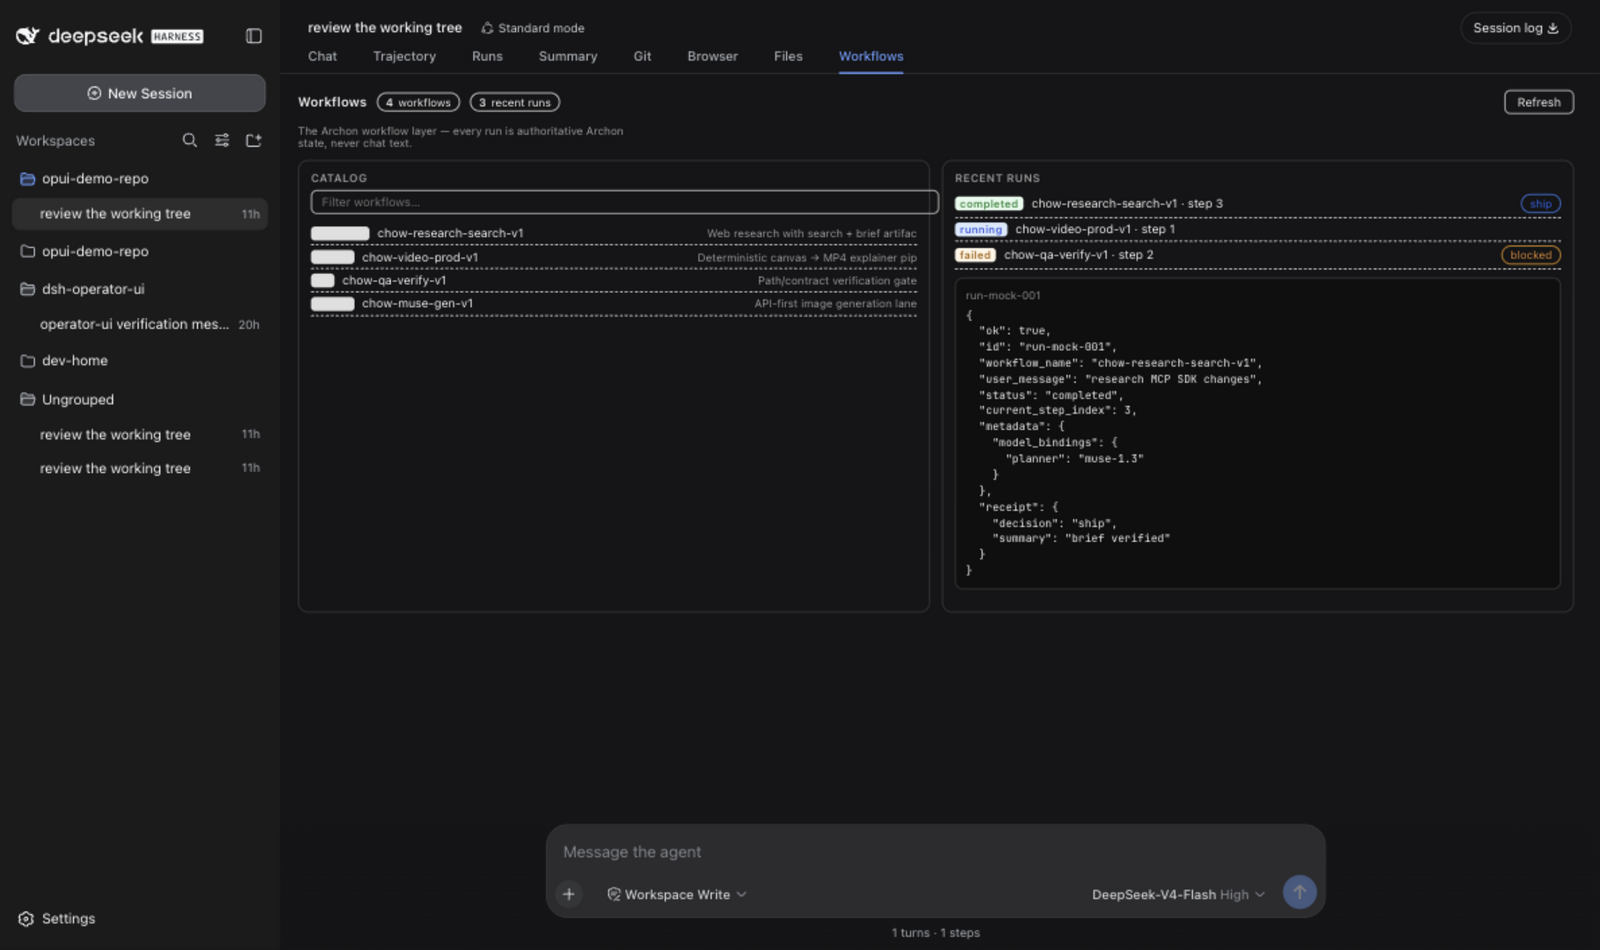
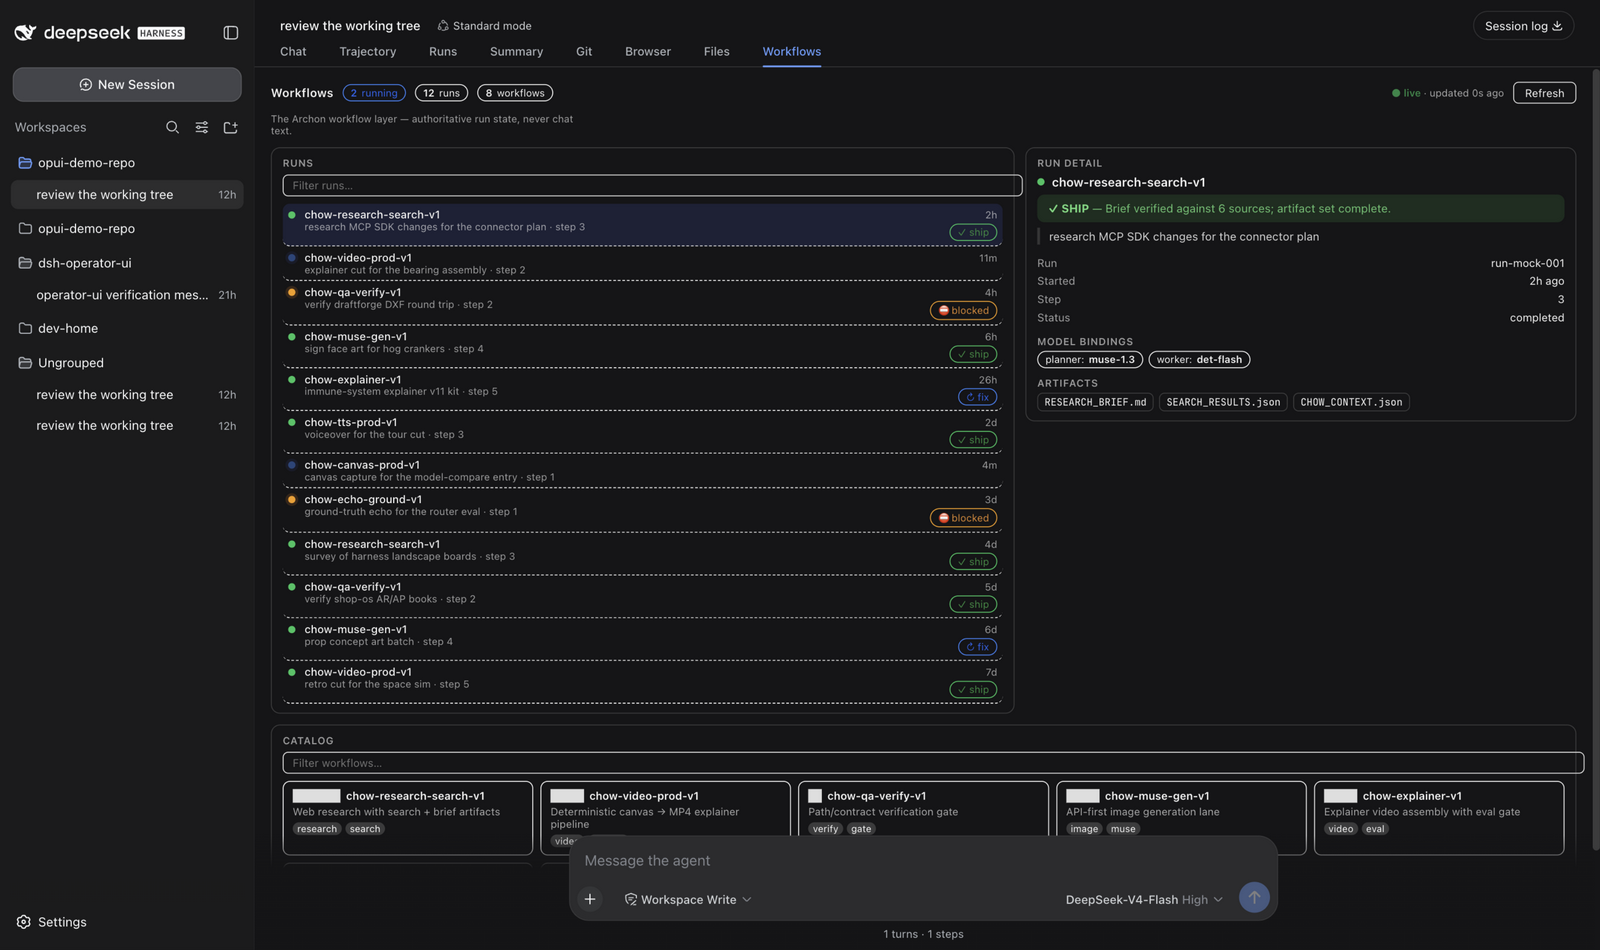
v0.6.0: Workflows tab redesign + DEPLOY runbook
- Workflows tab, properly designed: runs feed (status dots, message + step,
  relative time, receipt-decision chips) with filter; structured run detail
  (status hero with live pulse, SHIP/BLOCKED/NEEDS-FIX decision banner,
  message quote, facts, model-binding chips, artifact chips) — no more raw
  JSON; catalog as category cards with tag badges; live-updated indicator
  with refresh.
- mock-archon: 12 realistic runs (timestamps, artifacts, bindings) + 8
  workflows for development without a real Archon.
- DEPLOY.md: the install/verify/uninstall runbook for real hosts (env vars,
  systemd drop-in, 2-minute verification checklist, safety notes).

diff --git a/lib/client.js b/lib/client.js
@@ -250,6 +250,23 @@ body[data-ds-dark-theme] .opui-fs-content{background:var(--dsw-static-neutral-90
 .opui-git-add{color:var(--dsw-static-green-600,#2b8a3e);font-family:var(--ds-font-family-code,ui-monospace,monospace);font-size:11px}
 .opui-git-del{color:var(--dsw-static-red-600,#c92a2a);font-family:var(--ds-font-family-code,ui-monospace,monospace);font-size:11px}
 .opui-git-dels{display:flex;gap:4px;flex:none;width:86px;justify-content:flex-end;font-size:11px}
+.opui-chip.good{border-color:var(--dsw-static-green-500,#2f9e44);color:var(--dsw-static-green-600,#2b8a3e)}
+.opui-item.click{cursor:pointer;padding:5px 6px;border-radius:8px}
+.opui-item.click:hover{background:var(--dsw-static-neutral-50,#f6f8fa)}
+body[data-ds-dark-theme] .opui-item.click:hover{background:var(--dsw-static-neutral-800,#161b22)}
+.opui-item.sel{background:var(--dsw-static-blue-50,#edf2ff)}
+body[data-ds-dark-theme] .opui-item.sel{background:rgba(76,110,245,.14)}
+.opui-wf-decision{border-radius:8px;padding:8px 12px;font-weight:700;font-size:12.5px;margin:6px 0}
+.opui-wf-decision.good{background:var(--dsw-static-green-100,#d3f9d8);color:var(--dsw-static-green-800,#2b8a3e)}
+.opui-wf-decision.warn{background:var(--dsw-static-blue-100,#dbe4ff);color:var(--dsw-static-blue-700,#3b5bdb)}
+.opui-wf-decision.bad{background:var(--dsw-static-amber-100,#fff3bf);color:var(--dsw-static-amber-800,#a86600)}
+body[data-ds-dark-theme] .opui-wf-decision.good{background:rgba(47,158,68,.18);color:#69db7c}
+body[data-ds-dark-theme] .opui-wf-decision.warn{background:rgba(76,110,245,.18);color:#91a7ff}
+body[data-ds-dark-theme] .opui-wf-decision.bad{background:rgba(217,119,6,.18);color:#ffc078}
+.opui-wf-msg{border-left:3px solid var(--dsw-static-neutral-200,#c9d1d9);padding:2px 0 2px 10px;font-size:12.5px;opacity:.85;margin-top:6px}
+body[data-ds-dark-theme] .opui-wf-msg{border-left-color:var(--dsw-static-neutral-700,#30363d)}
+.opui-wf-art{font-family:var(--ds-font-family-code,ui-monospace,monospace);font-size:11px;border:1px solid var(--dsw-static-neutral-200,#c9d1d9);border-radius:6px;padding:2px 7px}
+body[data-ds-dark-theme] .opui-wf-art{border-color:var(--dsw-static-neutral-700,#30363d)}
 .opui-row.cur td:first-child{box-shadow:inset 3px 0 0 var(--dsw-static-blue-500,#4c6ef5)}
 `;
 
@@ -1084,22 +1101,31 @@ body[data-ds-dark-theme] .opui-fs-content{background:var(--dsw-static-neutral-90
 
     // ---------------------------------------------------------- workflows tab
 
-    const pick = (o, ...keys) => { for (const k of keys) { if (o && o[k] != null) return o[k]; } return null; };
+    const WF_DOT = { running: 'running', completed: 'done', failed: 'attention', queued: 'idle', pending: 'idle' };
+    const wfDot = (r) => WF_DOT[r.status] || 'idle';
+
+    const DecisionChip = ({ decision }) => decision
+      ? h('span', { className: 'opui-chip ' + (decision === 'ship' ? 'good' : decision === 'blocked' ? 'att' : 'run') },
+          decision === 'ship' ? '\u2713 ship' : decision === 'blocked' ? '\u26d4 blocked' : '\u21bb fix')
+      : null;
 
     const WorkflowsTab = () => {
-      const [data, setData] = useState({ phase: 'loading', catalog: null, runs: null, error: null, unreachable: false });
-      const [selRun, setSelRun] = useState(null);
-      const [query, setQuery] = useState('');
+      const [data, setData] = useState({ phase: 'loading', catalog: [], runs: [], error: null, unreachable: false, at: 0 });
+      const [selId, setSelId] = useState(null);
+      const [detail, setDetail] = useState(null);
+      const [wfQuery, setWfQuery] = useState('');
+      const [runQuery, setRunQuery] = useState('');
       const aliveRef = useRef(true);
+      useTick(15000); // keep relative times fresh
 
       const load = () => {
         fetch('/plugins/operator-ui/archon?op=catalog').then((r) => r.json()).then((c) => {
           if (!aliveRef.current) return;
-          setData((s) => ({ ...s, catalog: c.ok ? (c.workflows || []) : null, error: c.ok ? null : (c.error || 'catalog failed'), unreachable: !!c.unreachable }));
+          setData((s) => ({ ...s, catalog: c.ok ? (c.workflows || []) : [], error: c.ok ? null : (c.error || s.error), unreachable: s.unreachable || !!c.unreachable }));
         }).catch(() => {});
         fetch('/plugins/operator-ui/archon?op=runs&limit=20').then((r) => r.json()).then((r0) => {
           if (!aliveRef.current) return;
-          setData((s) => ({ ...s, phase: 'ready', runs: r0.ok ? (r0.runs || []) : null, error: r0.ok ? s.error : (r0.error || s.error), unreachable: !!r0.unreachable }));
+          setData((s) => ({ ...s, phase: 'ready', runs: r0.ok ? (r0.runs || []) : [], error: r0.ok ? null : (r0.error || s.error), unreachable: !!r0.unreachable, at: r0.ok ? Date.now() : s.at }));
         }).catch(() => {});
       };
 
@@ -1111,72 +1137,134 @@ body[data-ds-dark-theme] .opui-fs-content{background:var(--dsw-static-neutral-90
       }, []);
 
       const openRun = (id) => {
-        if (selRun && selRun.id === id) { setSelRun(null); return; }
-        setSelRun({ id, loading: true });
+        if (selId === id) { setSelId(null); setDetail(null); return; }
+        setSelId(id);
+        setDetail({ id, loading: true });
         fetch('/plugins/operator-ui/archon?op=run&id=' + encodeURIComponent(id))
           .then((r) => r.json())
-          .then((d) => setSelRun((cur) => (cur && cur.id === id ? { id, d: d.ok ? d : { ...d } } : cur)))
+          .then((d) => { if (aliveRef.current) setDetail((cur) => (cur && cur.id === id ? { id, d } : cur)); })
           .catch(() => {});
       };
 
-      const decisionChip = (decision) => decision
-        ? h('span', {
-          className: 'opui-chip ' + (decision === 'ship' ? 'run' : decision === 'blocked' ? 'att' : ''),
-        }, decision) : null;
-
       if (data.unreachable) {
         return h('div', { className: 'opui-sum' },
-          h('div', { className: 'opui-empty', style: { paddingTop: 50 } },
-            'Archon not reachable.',
-            h('div', { className: 'opui-sub', style: { marginTop: 8 } },
-              'The workflow layer shows runs from the Archon API (:3090). Start it or point DSH_OPERATOR_UI_ARCHON at it.')));
+          h('div', { className: 'opui-empty', style: { paddingTop: 60 } },
+            h('div', { style: { fontSize: 15, fontWeight: 600, marginBottom: 8 } }, 'Archon not reachable'),
+            h('div', { className: 'opui-sub', style: { maxWidth: 420, margin: '0 auto' } },
+              'The workflow layer reads the Archon API (:3090). Start Archon, or point DSH_OPERATOR_UI_ARCHON at it, and this tab fills in.')));
       }
 
-      const catalog = (data.catalog || []).filter((w) => {
-        const q = query.trim().toLowerCase();
-        return !q || ((w.name || '') + ' ' + (w.description || '')).toLowerCase().includes(q);
-      });
-      const runs = data.runs || [];
+      const q = wfQuery.trim().toLowerCase();
+      const rq = runQuery.trim().toLowerCase();
+      const catalog = data.catalog.filter((w) => !q || ((w.name || '') + ' ' + (w.description || '') + ' ' + (w.category || '')).toLowerCase().includes(q));
+      const runs = data.runs.filter((r) => !rq || ((r.workflow_name || '') + ' ' + (r.user_message || '')).toLowerCase().includes(rq));
+      const running = data.runs.filter((r) => r.status === 'running').length;
+      const d = detail && detail.d;
+
+      // --- pieces, then one flat return (paren-proof) ---
+      const head = h('div', { className: 'opui-head', style: { border: 'none', padding: '0 0 10px' } },
+        h('h2', null, 'Workflows'),
+        running ? h('span', { className: 'opui-chip run' }, h('b', null, running), 'running') : null,
+        h('span', { className: 'opui-chip' }, h('b', null, data.runs.length), 'runs'),
+        h('span', { className: 'opui-chip' }, h('b', null, data.catalog.length), 'workflows'),
+        h('span', { className: 'opui-spacer' }),
+        data.at ? h('span', { className: 'opui-hint' },
+          h('span', { className: 'opui-brs-live' }, '\u25cf live'), ' \u00b7 updated ' + relTime(data.at, Date.now()) + ' ago') : null,
+        h('button', { className: 'opui-btn', onClick: load }, 'Refresh'));
+
+      const runRow = (r, i) => h('div', {
+        key: r.id || i,
+        className: 'opui-item click' + (selId === r.id ? ' sel' : ''),
+        onClick: () => openRun(r.id),
+        title: r.id,
+      },
+        h('span', { className: 'opui-dot ' + wfDot(r), style: { marginRight: 2 } }),
+        h('span', { className: 'opui-txt' },
+          h('div', { style: { fontWeight: 500, overflow: 'hidden', textOverflow: 'ellipsis', whiteSpace: 'nowrap' } }, r.workflow_name || r.id),
+          h('div', { style: { fontSize: 11, opacity: .6, overflow: 'hidden', textOverflow: 'ellipsis', whiteSpace: 'nowrap' } },
+            (r.user_message || '') + (r.current_step_index != null ? '  \u00b7  step ' + r.current_step_index : ''))),
+        h('span', { style: { display: 'flex', flexDirection: 'column', alignItems: 'flex-end', gap: 3, flex: 'none' } },
+          r.started_at ? h('span', { className: 'opui-meta' }, relTime(r.started_at, Date.now())) : null,
+          DecisionChip({ decision: r.receipt && r.receipt.decision })));
+
+      const runsCard = h('div', { className: 'opui-sum-card' },
+        h('h4', null, 'Runs'),
+        h('input', {
+          className: 'opui-filter', style: { width: '100%', marginBottom: 8 },
+          placeholder: 'Filter runs\u2026', value: runQuery,
+          onChange: (e) => setRunQuery(e.target.value),
+        }),
+        data.phase === 'loading' ? h('div', { className: 'opui-none' }, 'Loading\u2026')
+          : runs.length === 0 ? h('div', { className: 'opui-none' }, 'No runs match')
+          : runs.map(runRow));
+
+      const detailBody = !selId
+        ? h('div', { className: 'opui-none' }, 'Select a run to inspect it.')
+        : detail && detail.loading ? h('div', { className: 'opui-none' }, 'Loading\u2026')
+        : !d ? h('div', { className: 'opui-none' }, 'Loading\u2026')
+        : h('div', null,
+          h('div', { style: { display: 'flex', alignItems: 'center', gap: 8, marginBottom: 6 } },
+            h('span', { className: 'opui-dot ' + wfDot(d), style: { flex: 'none' } }),
+            h('span', { style: { fontWeight: 600, fontSize: 13.5 } }, d.workflow_name || d.id),
+            d.status === 'running' ? h('span', { className: 'opui-brs-live', style: { fontSize: 11 } }, '\u25cf running') : null),
+          d.receipt && d.receipt.decision
+            ? h('div', { className: 'opui-wf-decision ' + (d.receipt.decision === 'ship' ? 'good' : d.receipt.decision === 'blocked' ? 'bad' : 'warn') },
+                (d.receipt.decision === 'ship' ? '\u2713 SHIP' : d.receipt.decision === 'blocked' ? '\u26d4 BLOCKED' : '\u21bb NEEDS FIX'),
+                d.receipt.summary ? h('span', { style: { fontWeight: 400, opacity: .85 } }, ' \u2014 ' + d.receipt.summary) : null)
+            : null,
+          d.user_message ? h('div', { className: 'opui-wf-msg' }, d.user_message) : null,
+          h('div', { style: { marginTop: 10 } },
+            kv('Run', d.id || '\u2014'),
+            d.started_at ? kv('Started', relTime(d.started_at, Date.now()) + ' ago') : null,
+            d.current_step_index != null ? kv('Step', String(d.current_step_index)) : null,
+            kv('Status', d.status || '\u2014')),
+          d.metadata && d.metadata.model_bindings && Object.keys(d.metadata.model_bindings).length
+            ? h('div', { style: { marginTop: 10 } },
+                h('div', { className: 'opui-sec', style: { margin: '6px 0 4px' } }, 'Model bindings'),
+                h('div', { style: { display: 'flex', flexWrap: 'wrap', gap: 6 } },
+                  Object.entries(d.metadata.model_bindings).map(([k, v]) =>
+                    h('span', { key: k, className: 'opui-chip' }, k + ': ', h('b', null, String(v))))))
+            : null,
+          d.receipt && Array.isArray(d.receipt.artifacts) && d.receipt.artifacts.length
+            ? h('div', { style: { marginTop: 10 } },
+                h('div', { className: 'opui-sec', style: { margin: '6px 0 4px' } }, 'Artifacts'),
+                h('div', { style: { display: 'flex', flexWrap: 'wrap', gap: 6 } },
+                  d.receipt.artifacts.map((a, i) => h('span', { key: i, className: 'opui-wf-art' }, a))))
+            : null);
+
+      const detailCard = h('div', { className: 'opui-sum-card' }, h('h4', null, 'Run detail'), detailBody);
+
+      const wfCard = (w, i) => h('div', {
+        key: i,
+        style: { border: '1px solid var(--dsw-static-neutral-100,#d8dee4)', borderRadius: 8, padding: '8px 10px' },
+      },
+        h('div', { style: { display: 'flex', gap: 6, alignItems: 'center', marginBottom: 3 } },
+          w.category ? h('span', { className: 'opui-kind t' }, w.category) : null,
+          h('span', { style: { fontWeight: 600, fontSize: 12 } }, w.name)),
+        h('div', { style: { fontSize: 11.5, opacity: .65 } }, w.description || ''),
+        w.tags && w.tags.length
+          ? h('div', { style: { marginTop: 5, display: 'flex', gap: 4, flexWrap: 'wrap' } },
+              w.tags.map((t, j) => h('span', { key: j, className: 'opui-badge' }, t)))
+          : null);
+
+      const catalogCard = h('div', { className: 'opui-sum-card', style: { marginTop: 12 } },
+        h('h4', null, 'Catalog'),
+        h('input', {
+          className: 'opui-filter', style: { width: '100%', marginBottom: 8 },
+          placeholder: 'Filter workflows\u2026', value: wfQuery,
+          onChange: (e) => setWfQuery(e.target.value),
+        }),
+        catalog.length === 0 ? h('div', { className: 'opui-none' }, 'No workflows match')
+          : h('div', { style: { display: 'grid', gridTemplateColumns: 'repeat(auto-fill,minmax(260px,1fr))', gap: 8 } },
+              catalog.map(wfCard)));
 
       return h('div', { className: 'opui-sum' },
-        h('div', { className: 'opui-head', style: { border: 'none', padding: '0 0 10px' } },
-          h('h2', null, 'Workflows'),
-          h('span', { className: 'opui-chip' }, h('b', null, catalog.length), 'workflows'),
-          h('span', { className: 'opui-chip' }, h('b', null, runs.length), 'recent runs'),
-          h('span', { className: 'opui-spacer' }),
-          h('button', { className: 'opui-btn', onClick: load }, 'Refresh')),
-        h('div', { className: 'opui-sub', style: { marginBottom: 10 } },
-          'The Archon workflow layer — every run is authoritative Archon state, never chat text.'),
-        h('div', { className: 'opui-sum-grid' },
-          h('div', { className: 'opui-sum-card' },
-            h('h4', null, 'Catalog'),
-            h('input', {
-              className: 'opui-filter', style: { width: '100%', marginBottom: 8 },
-              placeholder: 'Filter workflows…', value: query,
-              onChange: (e) => setQuery(e.target.value),
-            }),
-            catalog.length === 0 ? h('div', { className: 'opui-none' }, 'No matches') :
-              catalog.map((w, i) => h('div', { key: i, className: 'opui-item' },
-                h('span', { className: 'opui-kind t' }, w.category || 'wf'),
-                h('span', { className: 'opui-txt' }, w.name || '(unnamed)'),
-                h('span', { className: 'opui-meta' }, (w.description || '').slice(0, 40))))),
-          h('div', { className: 'opui-sum-card' },
-            h('h4', null, 'Recent runs'),
-            runs.length === 0 ? h('div', { className: 'opui-none' }, 'No runs yet') :
-              runs.map((r, i) => h('div', {
-                key: r.id || i,
-                className: 'opui-item',
-                style: { cursor: 'pointer' },
-                onClick: () => openRun(r.id),
-              },
-                h('span', { className: 'opui-kind ' + (r.status === 'running' ? 'q' : r.status === 'failed' ? 's' : 'j') }, r.status || '?'),
-                h('span', { className: 'opui-txt' }, (r.workflow_name || r.id || '') + (r.current_step_index != null ? ' · step ' + r.current_step_index : '')),
-                decisionChip(pick(r, 'decision') || (r.receipt && r.receipt.decision)))),
-            selRun
-              ? h('div', { className: 'opui-fs-content' },
-                h('div', { className: 'opui-fs-meta', style: { marginBottom: 6 } }, selRun.id),
-                selRun.loading || !selRun.d ? h('pre', null, 'Loading…') : h('pre', null, JSON.stringify(selRun.d, null, 2).slice(0, 2000)))
-              : null)));
+        head,
+        h('div', { className: 'opui-sub', style: { marginBottom: 12 } },
+          'The Archon workflow layer \u2014 authoritative run state, never chat text.'),
+        h('div', { style: { display: 'grid', gridTemplateColumns: '1.35fr 1fr', gap: 12, alignItems: 'start' } },
+          runsCard, detailCard),
+        catalogCard);
     };
 
     // ------------------------------------------------------------------ apply

diff --git a/DEPLOY.md b/DEPLOY.md
@@ -1,0 +1,71 @@
+# Deploying dsh-operator-ui
+
+The runbook for putting the plugin on a real DSH host. Everything here is
+reversible — the last section is the uninstall.
+
+## Requirements
+
+- DSH `0.1.0-rc.6` (the verified pin) with the `web` profile in use.
+- For the Git/Files tabs: `git` on PATH (read-only usage only).
+- For the Browser tab: Chrome/Chromium on the host. Override the binary with
+  `DSH_OPERATOR_UI_CHROME=/path/to/chrome` if it's not in a default location.
+- For the Workflows tab: an Archon API. Default `http://127.0.0.1:3090`;
+  override with `DSH_OPERATOR_UI_ARCHON`.
+
+## Install
+
+```sh
+git clone https://github.com/Foshowithit/dsh-operator-ui.git
+cd dsh-operator-ui
+node scripts/check.js                 # must PASS before proceeding
+dsh plugin --profile web add "$PWD"
+```
+
+The plugin self-inserts its bundle row; no manual `cordis.patch.yml` edit.
+
+If your `dsh` runs under systemd, add the env vars to the unit (or its
+drop-in) and restart it once:
+
+```ini
+# ~/.config/systemd/user/dsh-web.service.d/30-operator-ui.conf
+[Service]
+Environment=DSH_OPERATOR_UI_ARCHON=http://127.0.0.1:3090
+# Environment=DSH_OPERATOR_UI_CHROME=/usr/bin/chromium
+```
+
+```sh
+systemctl --user restart dsh-web
+```
+
+## Post-install verification (2 minutes)
+
+1. Open the web UI → tabs read: Chat · Trajectory · Runs · Summary · Git ·
+   Browser · Files · Workflows.
+2. **Runs**: every session listed with status/context; blanks hidden unless
+   you toggle the `blanks` chip.
+3. **Git**: open a session in a git repo — branch, changes, and per-file
+   diffs render.
+4. **Browser**: type a URL → a live view appears within a few seconds; stop
+   it with the button; it also self-stops after 10 idle minutes.
+5. **Workflows**: with Archon reachable you see catalog + runs + decisions;
+   with it down you see the honest "not reachable" panel (that's correct).
+6. `⌘K` / `Ctrl+K` opens the palette.
+
+## Uninstall
+
+```sh
+dsh plugin --profile web remove dsh-operator-ui
+systemctl --user restart dsh-web   # if applicable
+```
+
+Sessions, settings, and history are untouched (the plugin persists nothing).
+The supervised browser, if running, is torn down with the plugin.
+
+## Safety notes for shared hosts
+
+- The plugin's host half only ever: runs read-only `git` (fixed argv), reads
+  workspace files under the session's root, drives its OWN single supervised
+  browser (dedicated profile, idle-reaped), and GETs the Archon API.
+- It never writes to git, never touches other processes' browsers, and never
+  persists data outside `$DSH_HOME/operator-ui-browser` (its throwaway
+  browser profile).
